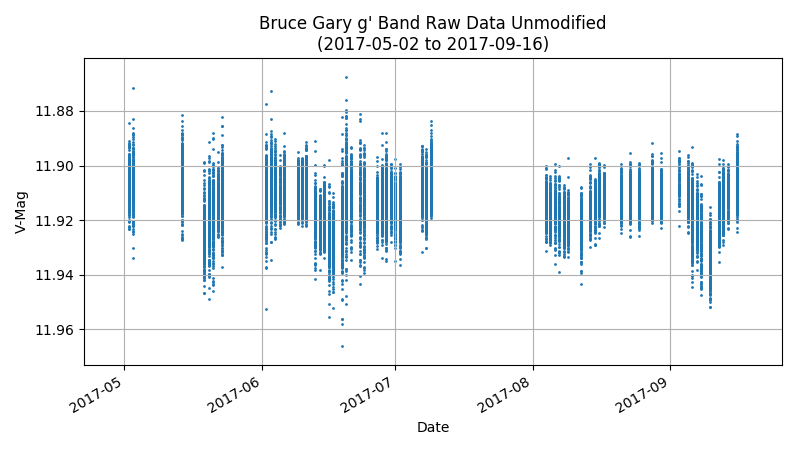
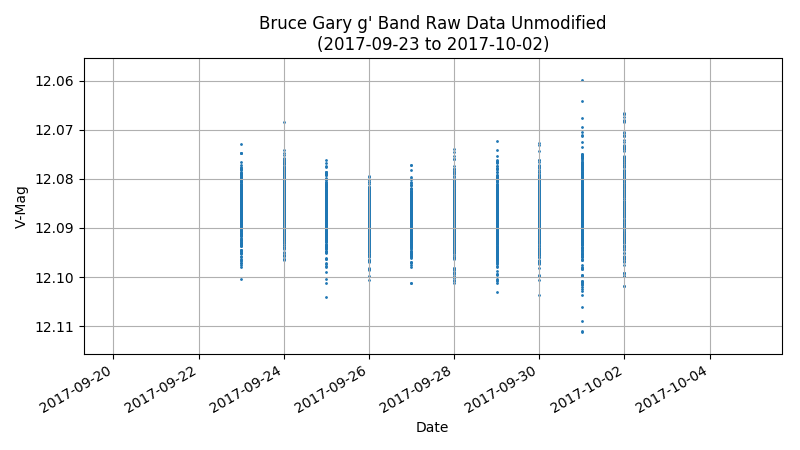
Fixed g'band_scatter.png

diff --git a/combine_data.py b/combine_data.py
@@ -44,7 +44,7 @@ def main():
     scatter_plot(vband_hourly_bins,plot_name="vband_scatter_good_air_hourly_bins", plot_title="Bruce Gary V Band Hourly Bins Air Mass <= 2.0",marker_size=16)
 
     write_csv(header+gbandCombined,"g'band_bruce_gary_raw_data_combined")
-    scatter_plot(vbandCombined,plot_name="g'band_scatter", plot_title="Bruce Gary g' Band Raw Data Unmodified",marker_size=1)
+    scatter_plot(gbandCombined,plot_name="g'band_scatter", plot_title="Bruce Gary g' Band Raw Data Unmodified",marker_size=1)
     write_csv(header+gband_combined_good_air,"g'band_bruce_gary_raw_data_good_air_combined")
     scatter_plot(gband_combined_good_air,plot_name="g'band_scatter_good_air", plot_title="Bruce Gary g' Band Raw Data Air Mass <= 2.0",marker_size=1)
     gband_daily_bins = get_bins(gband_combined_good_air,60*60*24)
